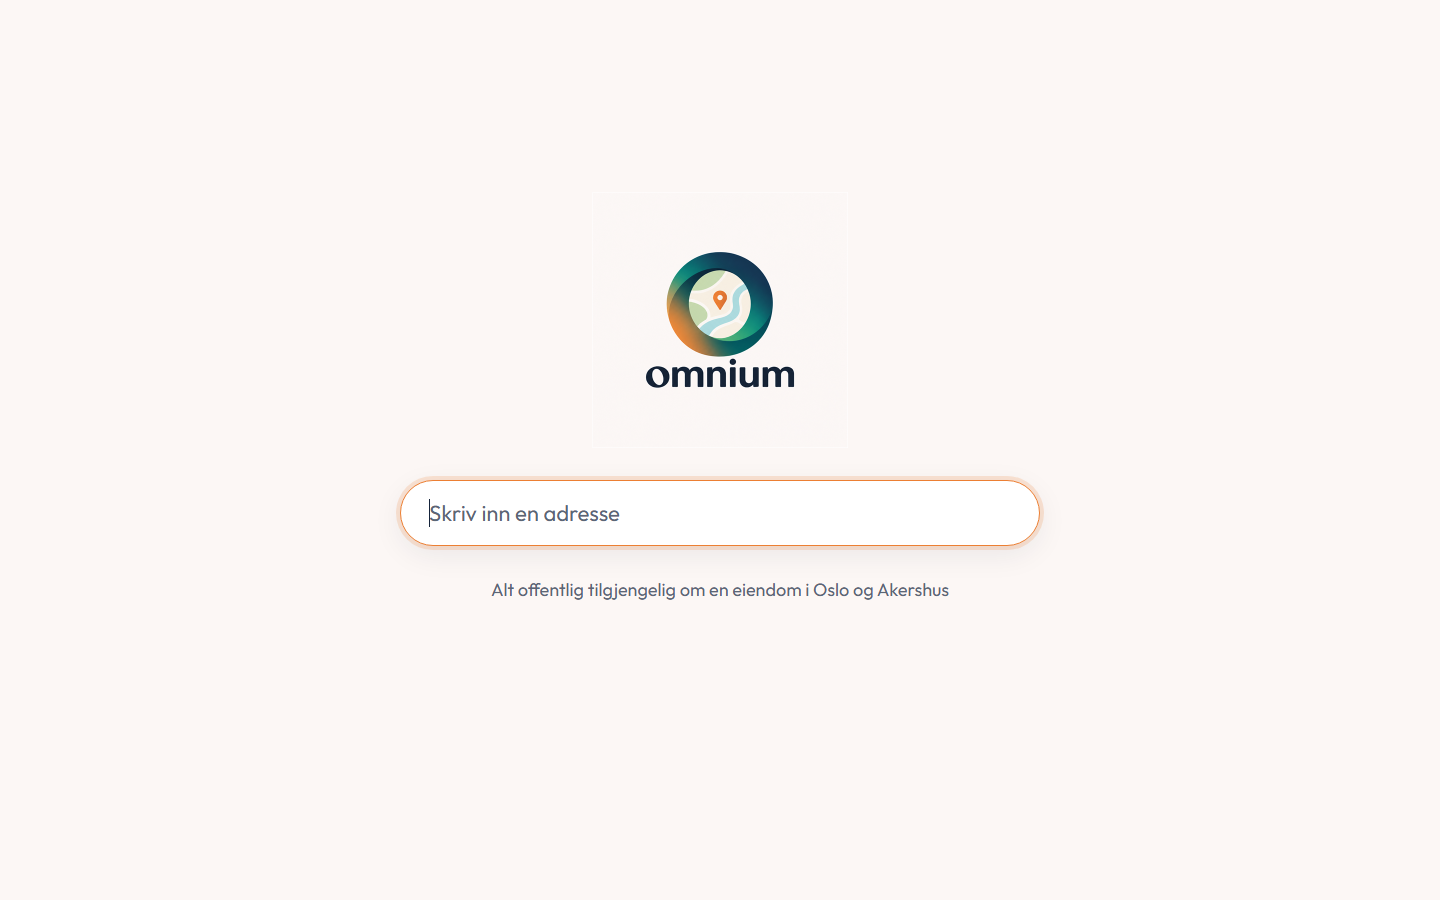
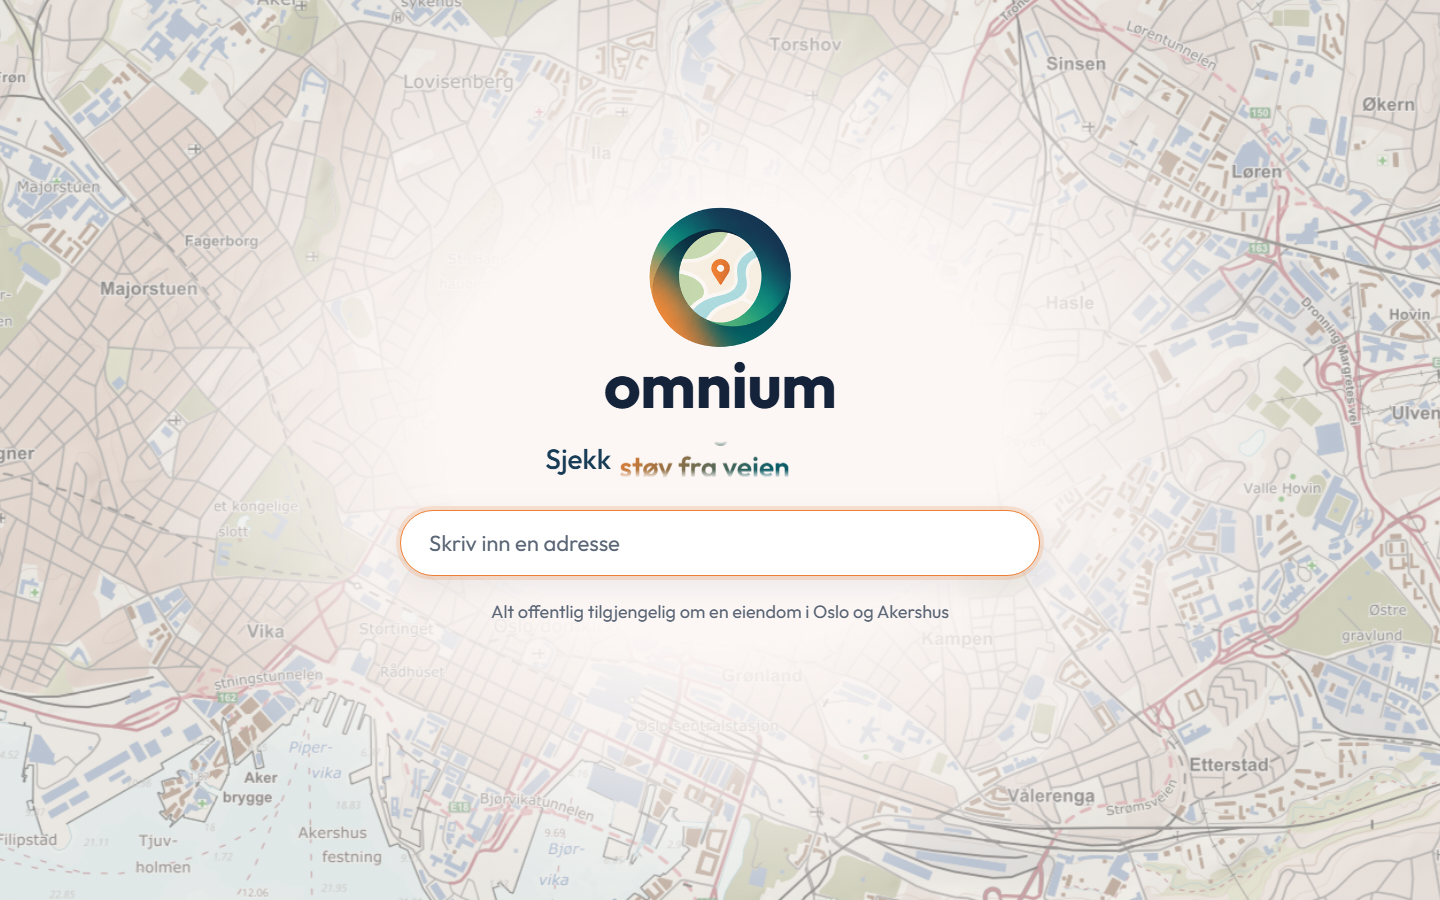
Bedrock rule and text; screenshots with the new start page and basemap
- FACTS.md: bedrock sentences (alunskifer, oversiktskart)
- TEXTS.md: bedrock section
- docs/demo: screenshots 1, 2 and 4 retaken after Erik's new start page
  and warm basemap

diff --git a/docs/TEXTS.md b/docs/TEXTS.md
@@ -19,6 +19,11 @@ How to use this file:
 - **Når marin leire:** Marin leire ble avsatt i havet etter siste istid. Den kan gi setninger i bygninger og kan noen steder inneholde kvikkleire.
 - Kartet er grovt og viser ikke nøyaktig hva som ligger under akkurat denne tomten.
 
+### `bedrock` — Berggrunn
+**Forklaring:** Berggrunnen er fjellet under løsmassene. Bergarten påvirker blant annet hvor mye radon som kan komme fra grunnen og hvor godt det er å bygge på.
+- **Når alunskifer:** Alunskifer kan svelle og skade grunnmurer, gir surt vann når den graves opp, og gir ofte mye radon. Det har mest å si ved graving og bygging.
+- **Når oversiktskart:** Bergarten er hentet fra et grovt kart (1:250 000), så den kan være en annen akkurat på denne tomten.
+
 ### `radon` — Radon
 **Forklaring:** Radon er en radioaktiv gass fra berggrunnen som kan sive inn i hus. Det er den viktigste årsaken til lungekreft etter røyking.
 - **Når høy eller meget høy aktsomhet:** Det er større sjanse enn ellers for at hus i området har for mye radon. Bare en måling i huset kan si hvor mye radon det faktisk er.

diff --git a/docs/FACTS.md b/docs/FACTS.md
@@ -54,6 +54,15 @@ Rules for every sentence:
 
 Write `{display}` with a lower-case first letter inside the sentence: "Grunnen består av hav- og fjordavsetning, …", not "… av Hav- og fjordavsetning".
 
+**`bedrock` (Berggrunn)**
+
+| When | Sentence | Rank |
+|---|---|---|
+| warning (alunskifer) | Berggrunnen på stedet inneholder alunskifer ({src}). | 3 |
+| no warning | Berggrunnen på stedet er {rock} ({src}). | 6 |
+
+`{display}` is the rock type, maybe followed by " (oversiktskart)" and ", med alunskifer". `{rock}` is the rock type alone, in lower case. If it says "(oversiktskart)", add "ifølge et oversiktskart" before the source: the coarse 1:250 000 map can be wrong for a single plot. Never call alunskifer dangerous; the info text explains what it can do.
+
 **`radon` (Radon)**
 
 | When | Sentence | Rank |
